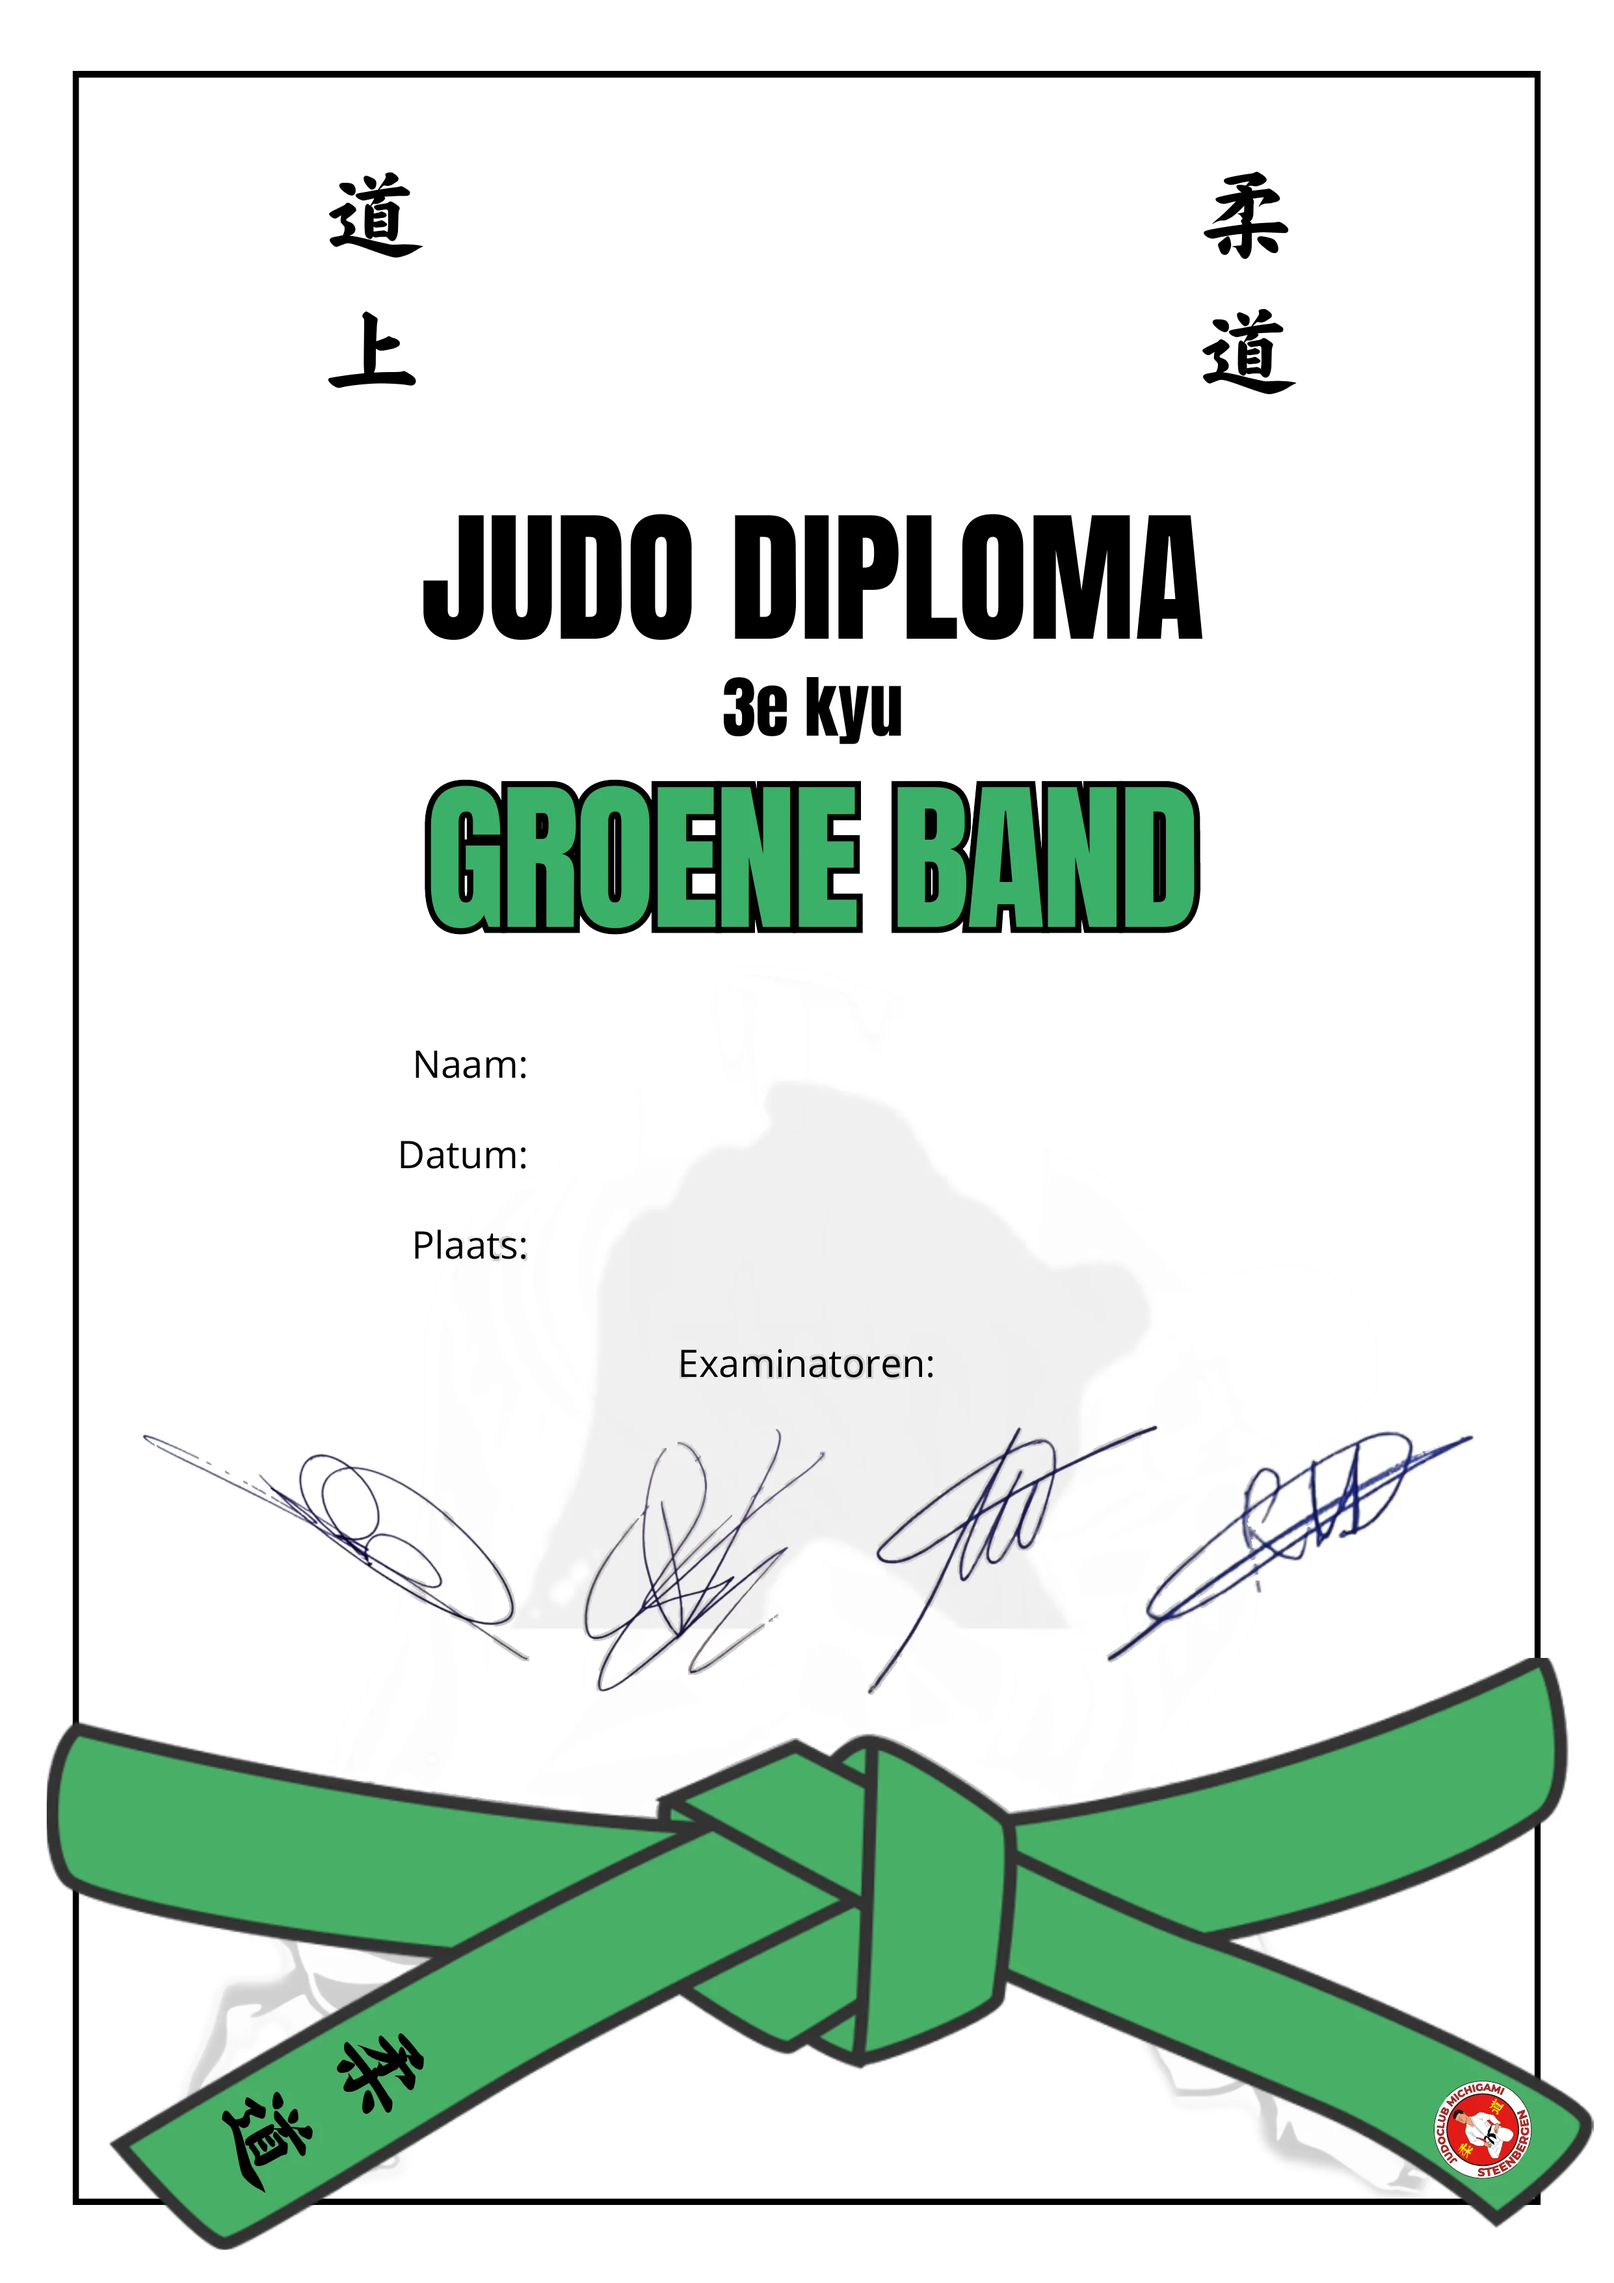
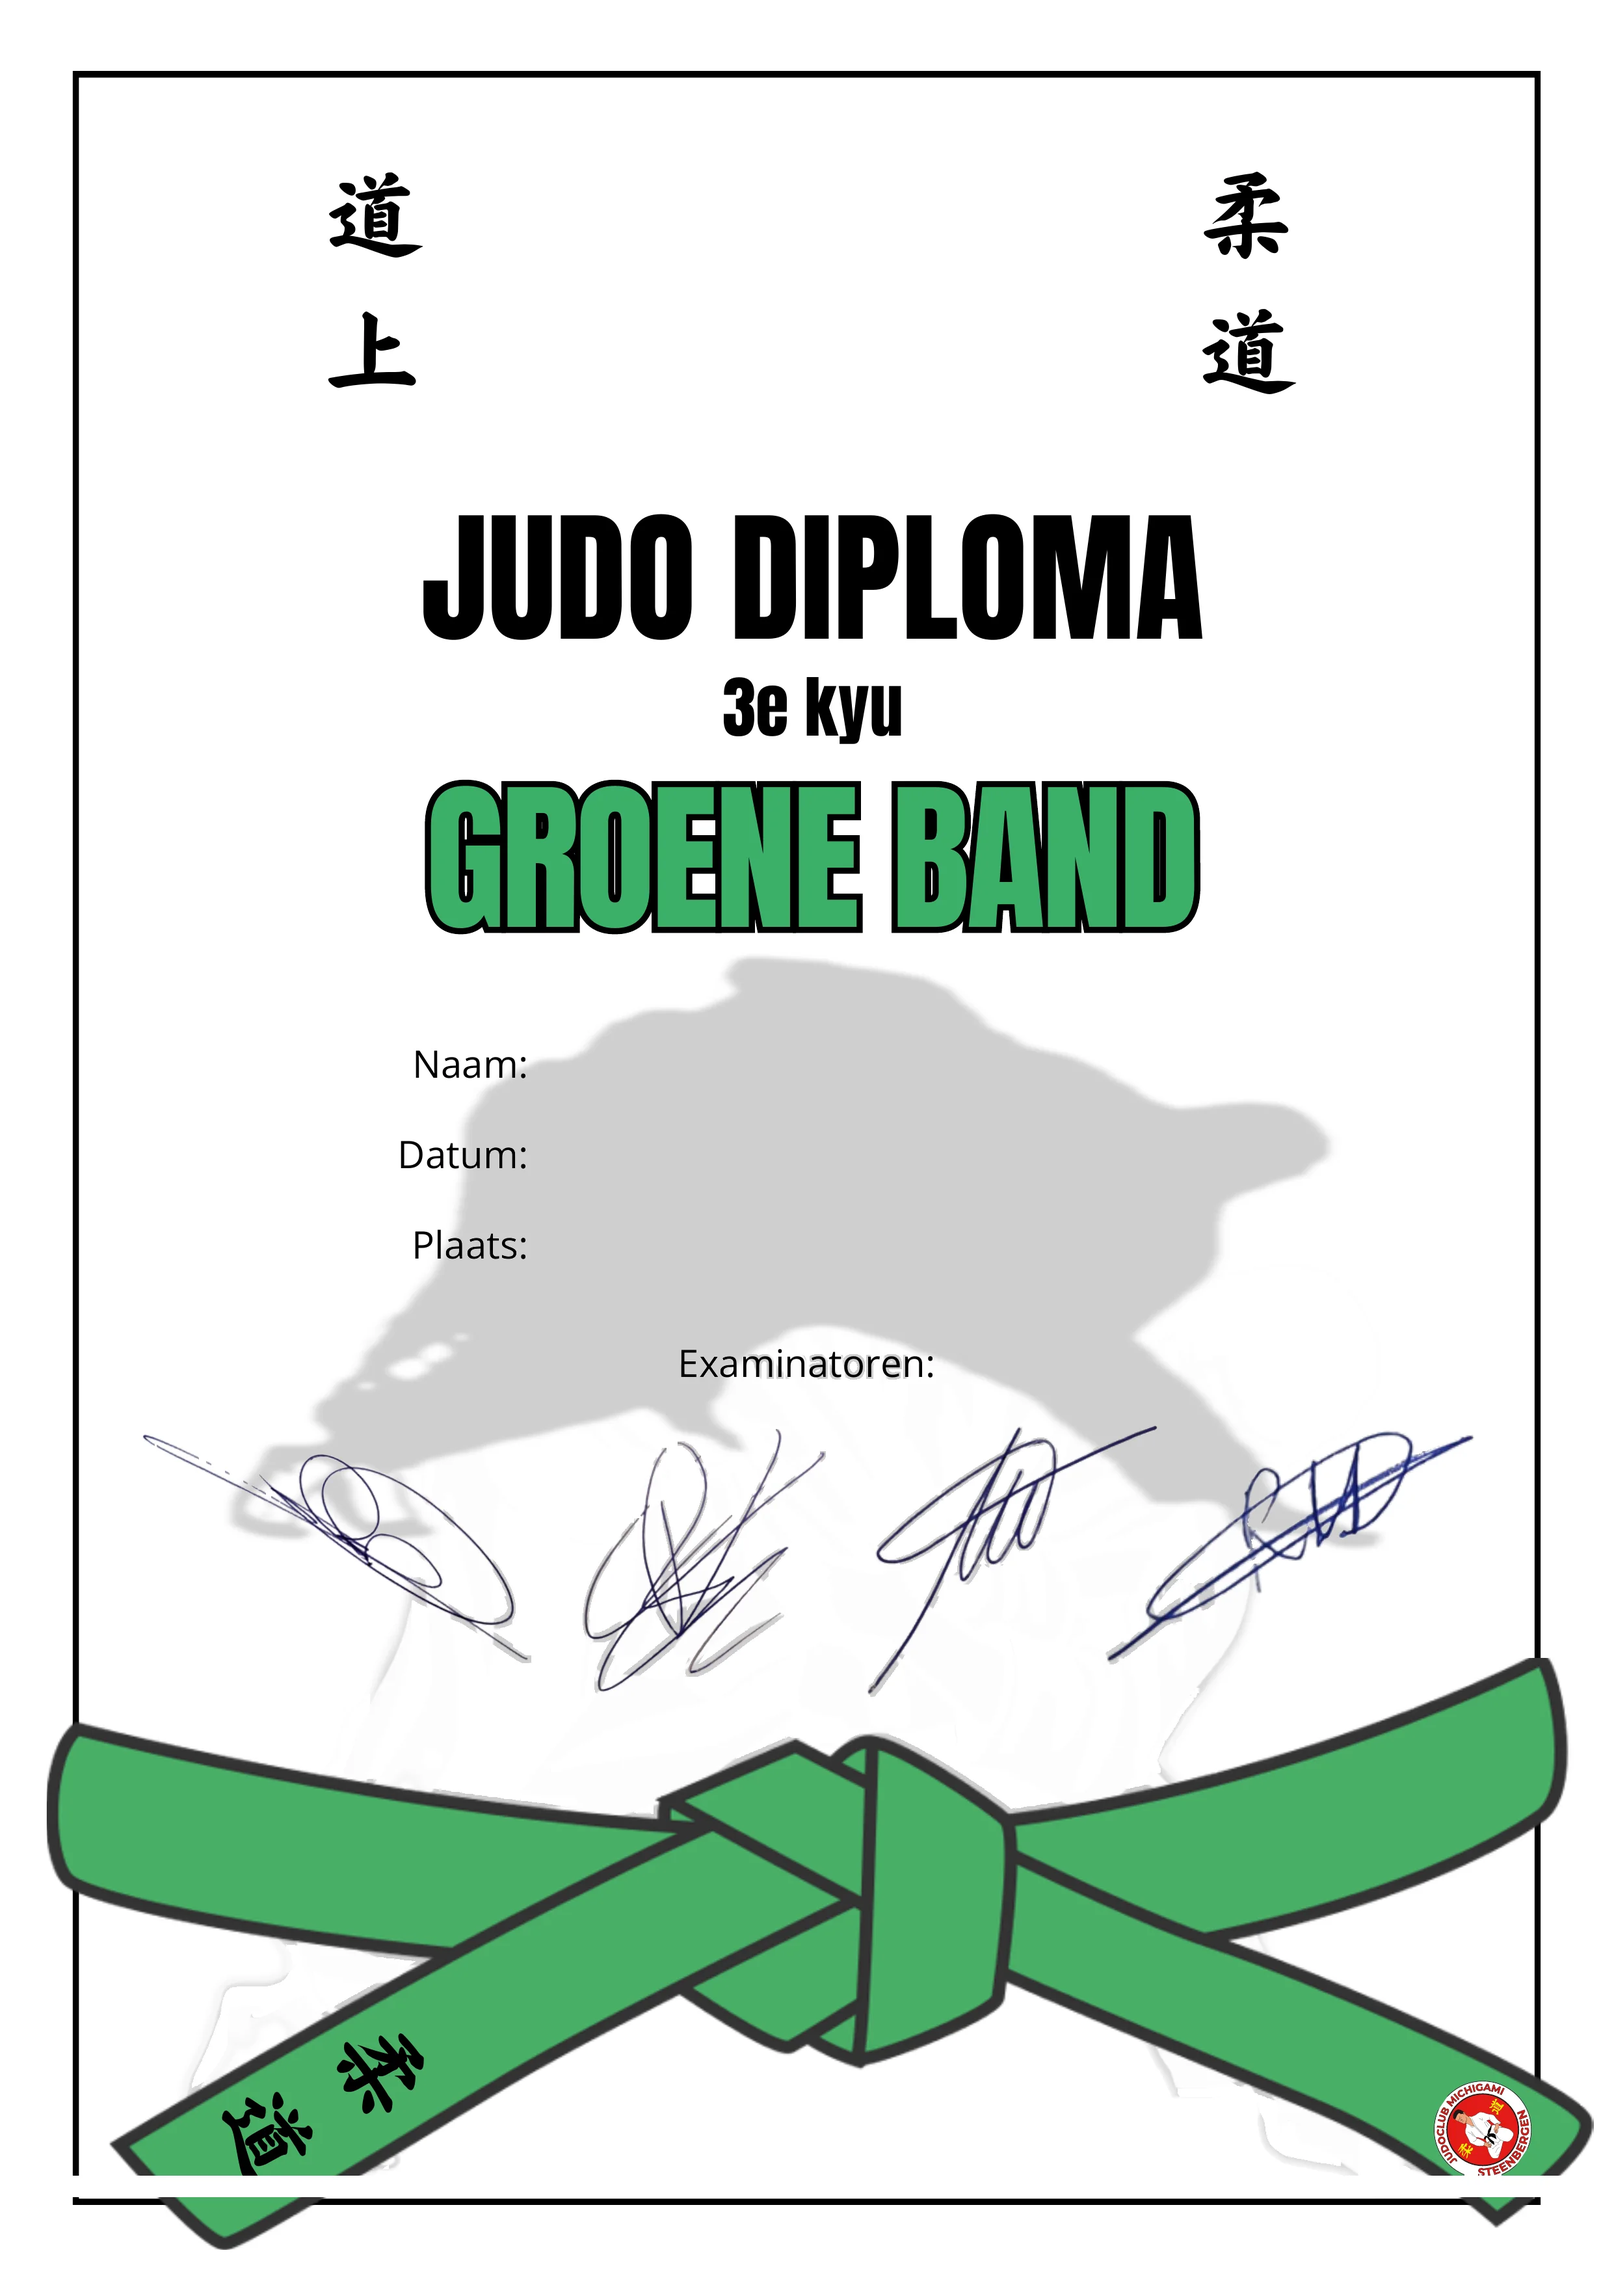
fix: watermerk op exacte Canva-specs (151x78mm grijs 207) + witte obi-schaduw intact + oude wm-resten onder band verwijderd

diff --git a/public/sw.js b/public/sw.js
@@ -1,5 +1,5 @@
 /* PWA Service Worker — Judoclub Michigami */
-const CACHE_NAME = "michigami-v205-20261119";
+const CACHE_NAME = "michigami-v206-20261119";
 
 // Assets to pre-cache on install (critical for offline)
 const PRECACHE_URLS = [
